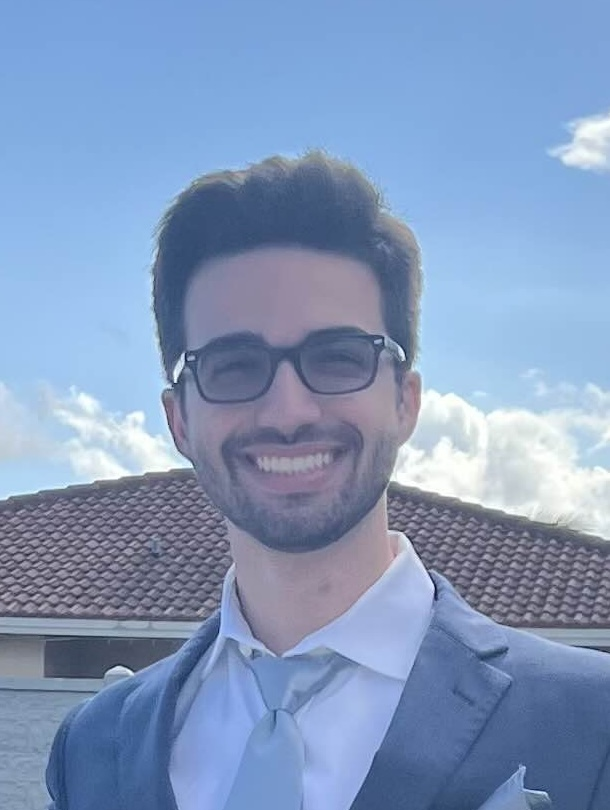
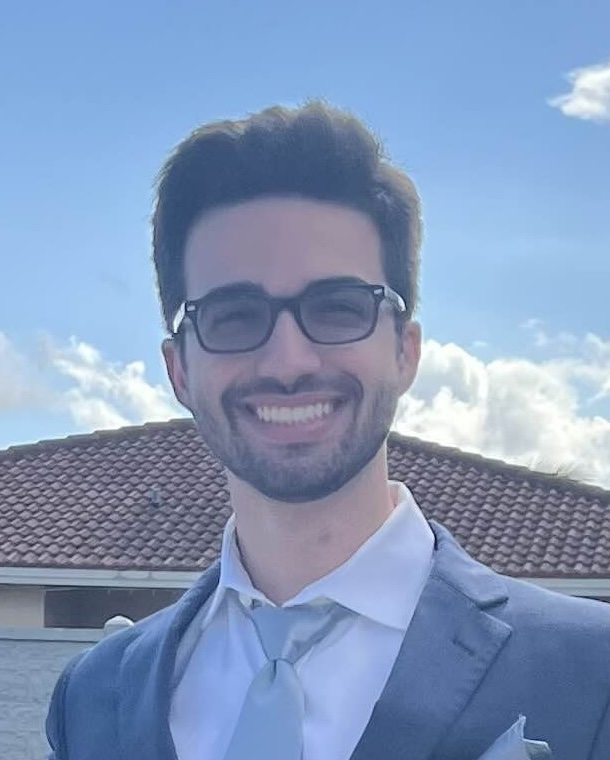
updated pics for team members

diff --git a/FlowCast/pages/07_About Us.py b/FlowCast/pages/07_About Us.py
@@ -1,29 +1,177 @@
 import streamlit as st
 
+# Define images
 IMAGE_JESUS = "media/JesusPic.jpg"
 IMAGE_ANGIE = "media/AngiePic.jpg"
+IMAGE_STEVEN = "media/StevenPic.jpg"
+IMAGE_CHRIS = "media/ChrisPic.jpg"
 
-st.set_page_config(page_title="FlowCast", layout="wide",
-                   page_icon="🌊", initial_sidebar_state="expanded")
+# Page configuration
+st.set_page_config(
+    page_title="FlowCast: About Us",
+    layout="wide",
+    page_icon="🌊",
+    initial_sidebar_state="expanded",
+)
 
+# Custom CSS for consistent styling
+st.markdown(
+    """
+    <style>
+        /* Banner Styling */
+        .hero-title {
+            font-size: 3rem;
+            font-weight: bold;
+            color: white;
+            text-align: center;
+            background: linear-gradient(135deg, #005f73, #0a9396);
+            padding: 20px;
+            border-radius: 15px;
+            margin-bottom: 30px;
+            box-shadow: 0 4px 8px rgba(0, 0, 0, 0.2);
+        }
 
-def load_media(column, file_path, caption):
-    with column:
-        if file_path.endswith(".jpeg") or file_path.endswith(".PNG") or file_path.endswith(".jpg"):
-            column.image(file_path, caption=caption, width=200)
-        elif file_path.endswith(".mp4"):
-            column.video(file_path)
-        elif file_path.endswith(".mp3"):
-            column.audio(file_path)
+        /* Subheader Styling */
+        .styled-subheader {
+            font-size: 1.5rem;
+            font-weight: bold;
+            color: #005f73;
+            margin-bottom: 20px;
+            text-align: center;
+        }
 
+        /* Team Card Styling */
+        .team-card {
+            text-align: center;
+            font-family: 'Arial', sans-serif;
+        }
+        .team-card img {
+            border-radius: 50%;
+            box-shadow: 0 4px 8px rgba(0, 0, 0, 0.1);
+            width: 150px;
+            height: 150px;
+        }
+        .team-card h3 {
+            font-size: 1.2rem;
+            font-weight: bold;
+            color: #005f73;
+            margin-top: 10px;
+        }
+        .team-card p {
+            font-size: 0.9rem;
+            color: #333;
+            margin-top: 5px;
+        }
 
-st.title("About Us")
-st.subheader("Get to Know the Team!")
-st.divider()
-col1, col2, col3, col4 = st.columns(4)
-load_media(col2, IMAGE_JESUS, "Jesus Elespuru, Senior, Front-End Developer, Data-Collection, Florida International "
-                              "University")
-load_media(col3, IMAGE_ANGIE,
-           "Angie Martinez, Senior, Back-End Developer, Data-Collection, Florida International University")
-st.divider()
-col5, col6, col7 = st.columns([1, 1, 1])
+        /* Divider */
+        .divider {
+            border-top: 2px solid #005f73;
+            margin: 20px 0;
+        }
+    </style>
+    """,
+    unsafe_allow_html=True,
+)
+
+# Function to display centered image with caption
+def centered_image(image_path, caption, width=200):
+    st.markdown(
+        f"""
+        <div style="display: flex; flex-direction: column; align-items: center; margin-bottom: 20px;">
+            <img src="{image_path}" alt="{caption}" style="border-radius: 50%; width: {width}px; height: {width}px; box-shadow: 0 4px 8px rgba(0, 0, 0, 0.1);">
+            <p style="text-align: center; font-size: 0.9rem; color: gray;">{caption}</p>
+        </div>
+        """,
+        unsafe_allow_html=True,
+    )
+
+# Banner Title
+st.markdown('<div class="hero-title">Meet the FlowCast Team</div>', unsafe_allow_html=True)
+
+# About Us Content in Tabs
+st.markdown('<p class="styled-subheader">Learn more about each team member and their contributions to FlowCast.</p>', unsafe_allow_html=True)
+tabs = st.tabs(["Jesus Elespuru", "Angie Martinez", "Steven Luque", "Christopher Perez"])
+
+# Jesus Elespuru
+with tabs[0]:
+    centered_image(IMAGE_JESUS, caption="Jesus Elespuru")
+    st.markdown(
+        """
+        <div class="team-card">
+            <h3>Jesus Elespuru</h3>
+            <p>Senior, Back-End Developer & Hardware Designer</p>
+            <p>Florida International University</p>
+        </div>
+        """,
+        unsafe_allow_html=True,
+    )
+    st.write(
+        "Jesus contributed to FlowCast as a back-end developer, focusing on the server-side architecture and API integrations. "
+        "He also played a key role in hardware design, ensuring that the physical components of the system met the project's "
+        "technical specifications and worked seamlessly with the software."
+    )
+
+# Angie Martinez
+with tabs[1]:
+    centered_image(IMAGE_ANGIE, caption="Angie Martinez")
+    st.markdown(
+        """
+        <div class="team-card">
+            <h3>Angie Martinez</h3>
+            <p>Senior, Full-Stack Developer, Software Designer & Project Manager</p>
+            <p>Florida International University</p>
+        </div>
+        """,
+        unsafe_allow_html=True,
+    )
+    st.write(
+        "Angie served as the full-stack developer for FlowCast, excelling in both front-end and back-end development. She also led the "
+        "software design efforts, ensuring the application was robust and user-friendly. As project manager, Angie coordinated team efforts "
+        "and ensured deadlines were met while maintaining the project's overall vision."
+    )
+
+# Steven Luque
+with tabs[2]:
+    centered_image(IMAGE_STEVEN, caption="Steven Luque")
+    st.markdown(
+        """
+        <div class="team-card">
+            <h3>Steven Luque</h3>
+            <p>Senior, Hardware Designer & Wiring Integration Specialist</p>
+            <p>Florida International University</p>
+        </div>
+        """,
+        unsafe_allow_html=True,
+    )
+    st.write(
+        "Steven's expertise in hardware design was instrumental to FlowCast's success. He focused on integrating wiring components and ensuring "
+        "the hardware setup functioned effectively in real-world conditions. His contributions ensured the smooth operation of all hardware components."
+    )
+
+# Christopher Perez
+with tabs[3]:
+    centered_image(IMAGE_CHRIS, caption="Christopher Perez")
+    st.markdown(
+        """
+        <div class="team-card">
+            <h3>Christopher Perez</h3>
+            <p>Senior, Mathematics & Circuit Analysis</p>
+            <p>Florida International University</p>
+        </div>
+        """,
+        unsafe_allow_html=True,
+    )
+    st.write(
+        "Christopher applied his strong background in mathematics and circuit analysis to optimize the electronic systems of FlowCast. "
+        "His work involved ensuring the accuracy of sensor data and the efficiency of circuit designs, which formed the backbone of the system's data collection processes."
+    )
+
+# Divider
+st.markdown('<div class="divider"></div>', unsafe_allow_html=True)
+
+# Closing Note
+st.write(
+    "The FlowCast team collaborated on every aspect of the project, from field data collection to designing and deploying "
+    "the application. Their shared expertise has brought FlowCast to life, enabling real-time water quality insights for "
+    "environmental preservation."
+)
